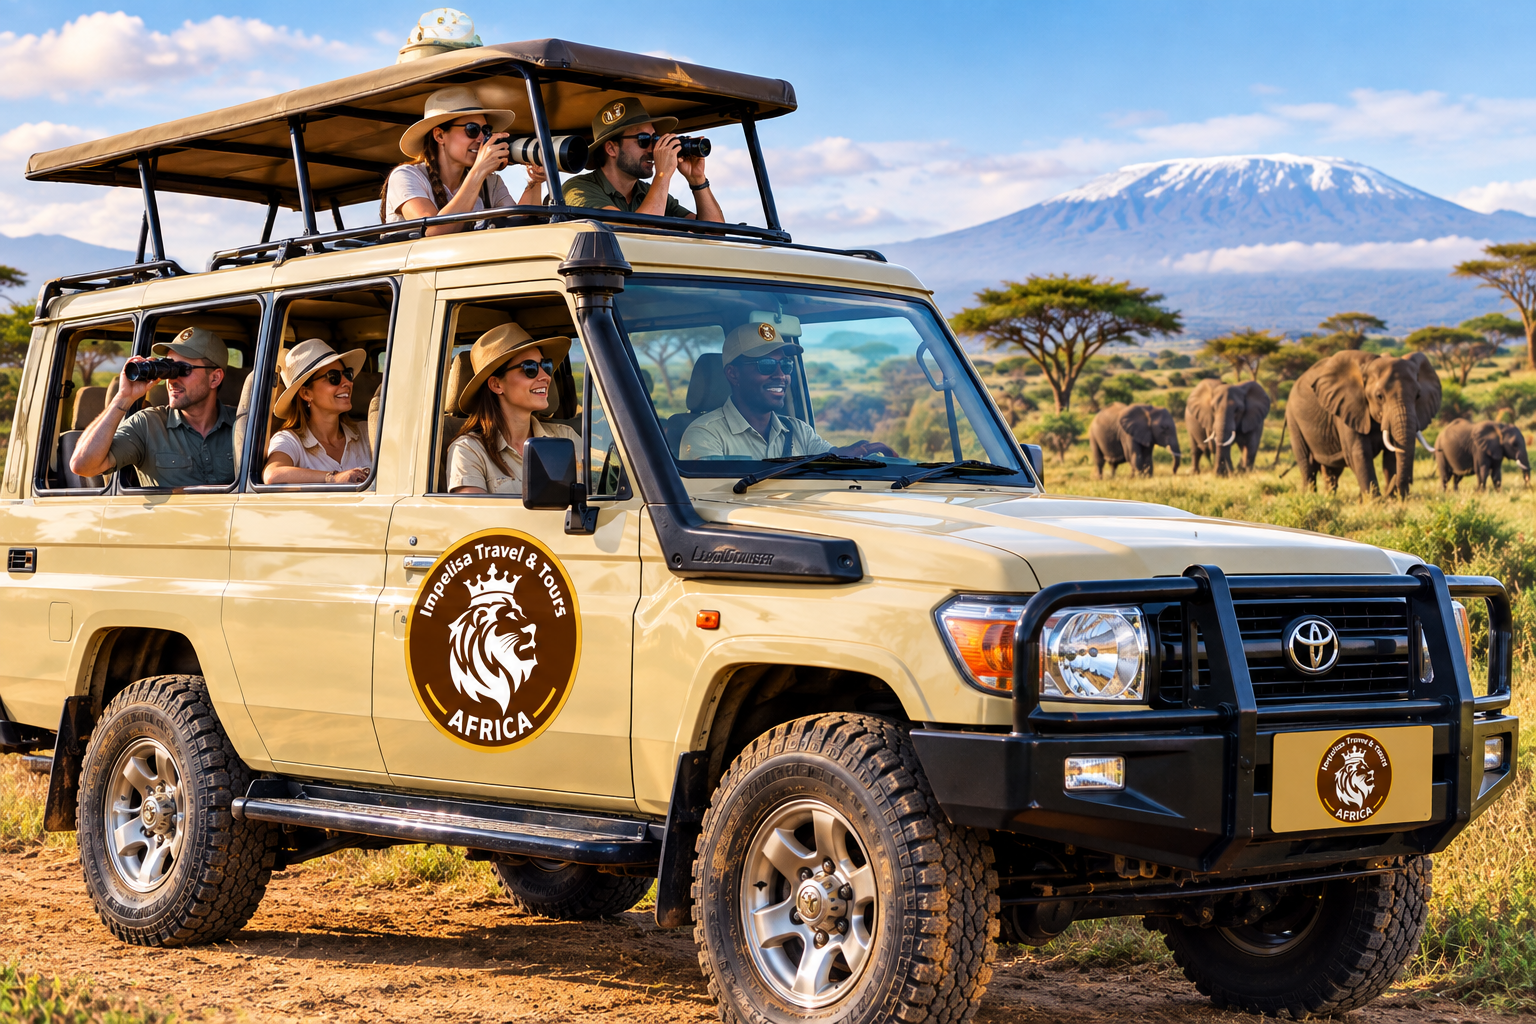
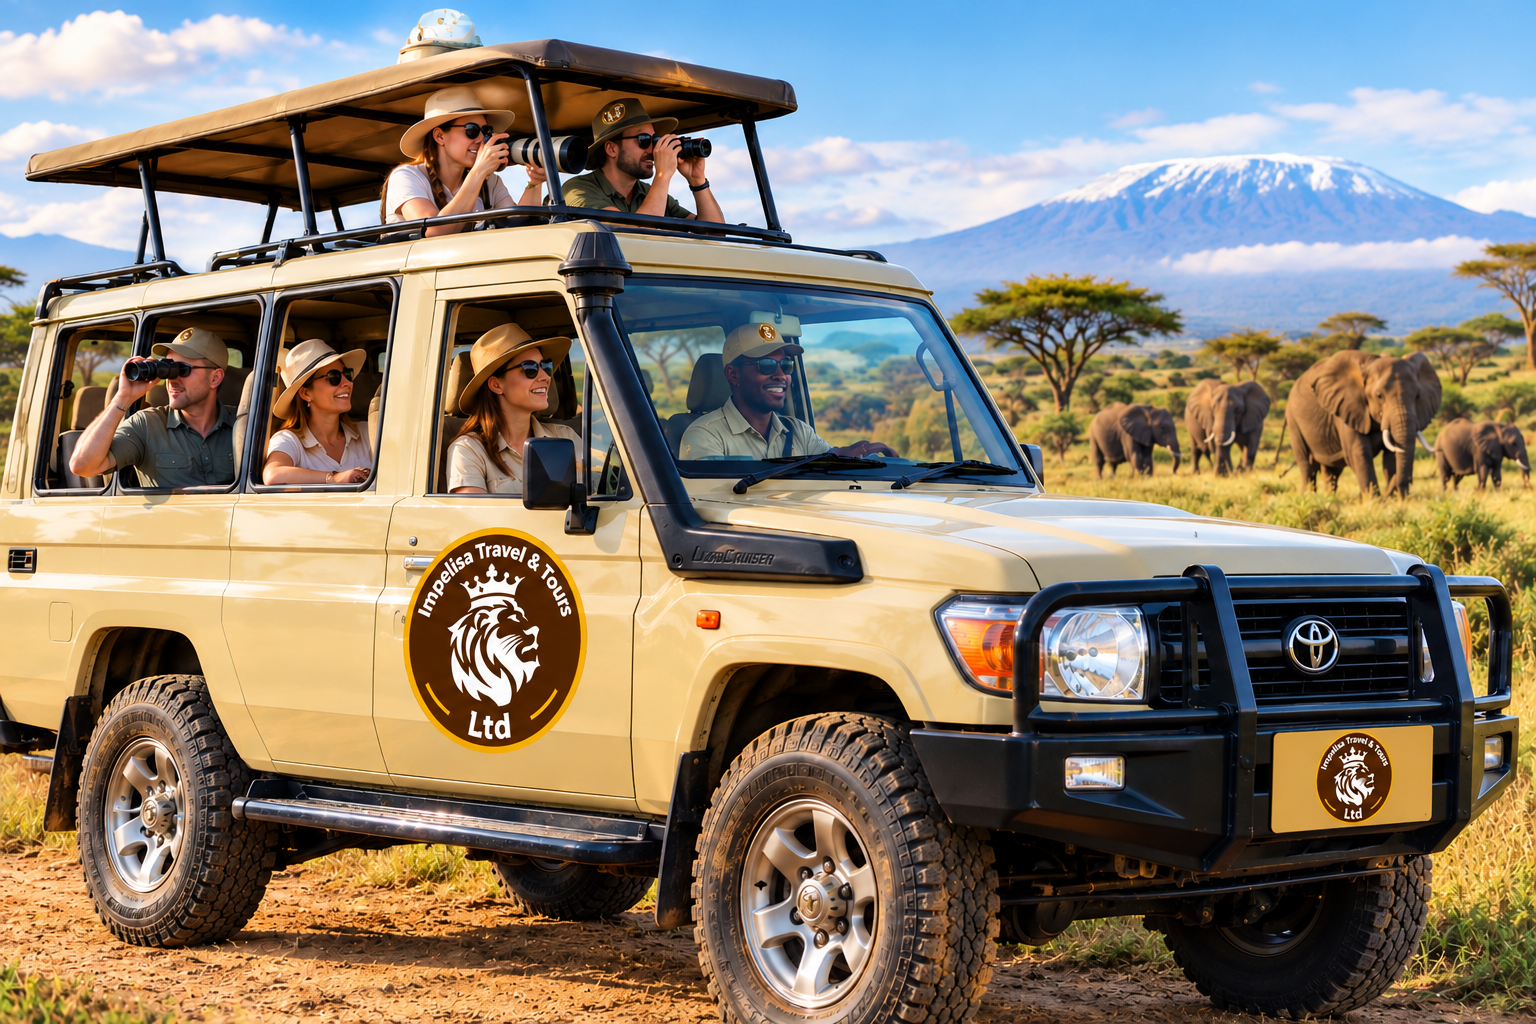
Sixth Commit

diff --git a/src/components/HeroSection.tsx b/src/components/HeroSection.tsx
@@ -73,7 +73,7 @@ export default function HeroSection() {
           <p className="text-white/70 text-base lg:text-lg leading-relaxed mb-8 max-w-md">
             From breathtaking wildlife safaris to pristine beaches and majestic
             mountains, discover Africa&apos;s most incredible destinations with
-            Impelisa Travel &amp; Tours Africa.
+            Impelisa Travel &amp; Tours Ltd
           </p>
 
           <div className="flex flex-wrap gap-4">
@@ -104,122 +104,7 @@ export default function HeroSection() {
           </div>
         </div>
 
-        {/* Right: Search Card */}
-        <form
-          onSubmit={handleFindTrip}
-          className="w-full max-w-sm lg:max-w-[340px] xl:max-w-[370px] lg:ml-auto search-card p-6"
-        >
-          {/* Card Header */}
-          <div className="flex items-start gap-4 mb-6 pb-5 border-b border-white/10">
-            <div className="w-10 h-10 rounded-xl bg-[var(--gold)]/15 flex items-center justify-center shrink-0">
-              <svg width="18" height="18" viewBox="0 0 24 24" fill="none" stroke="var(--gold)" strokeWidth="1.8">
-                <rect x="3" y="4" width="18" height="18" rx="2" ry="2"/>
-                <line x1="16" y1="2" x2="16" y2="6"/>
-                <line x1="8" y1="2" x2="8" y2="6"/>
-                <line x1="3" y1="10" x2="21" y2="10"/>
-                <circle cx="17" cy="17" r="3"/>
-                <path d="m19.5 19.5-1.5-1.5"/>
-              </svg>
-            </div>
-            <div>
-              <h3 className="text-white font-bold text-base">Find Your Perfect Trip</h3>
-              <p className="text-white/50 text-xs mt-0.5 leading-relaxed">
-                Search destinations, dates and get a customized experience.
-              </p>
-            </div>
-          </div>
-
-          {/* Destination */}
-          <div className="mb-4">
-            <label className="block text-white/60 text-xs font-semibold tracking-wider uppercase mb-2">
-              Destination
-            </label>
-            <div className="relative">
-              <select
-                value={destination}
-                onChange={(e) => setDestination(e.target.value)}
-                className="input-dark pl-10 pr-8 text-sm cursor-pointer"
-              >
-                <option value="">Select destination</option>
-                {destinations.map((d) => (
-                  <option key={d} value={d}>{d}</option>
-                ))}
-              </select>
-              <div className="absolute right-3 top-1/2 -translate-y-1/2 pointer-events-none text-white/40">
-                <svg width="14" height="14" viewBox="0 0 24 24" fill="none" stroke="currentColor" strokeWidth="2">
-                  <path d="m6 9 6 6 6-6"/>
-                </svg>
-              </div>
-            </div>
-          </div>
-
-          {/* Travel Dates */}
-          <div className="mb-4">
-            <label className="block text-white/60 text-xs font-semibold tracking-wider uppercase mb-2">
-              Travel Dates
-            </label>
-            <div className="flex items-center gap-2 bg-[var(--dark-3)] rounded-lg border border-white/10 px-3 py-2">
-             
-              <input
-                type="date"
-                value={startDate}
-                onChange={(e) => setStartDate(e.target.value)}
-                placeholder="Start date"
-                className="bg-transparent outline-none text-sm text-white/70 flex-1 min-w-0 [color-scheme:dark]"
-              />
-              <svg width="14" height="14" viewBox="0 0 24 24" fill="none" stroke="white" strokeWidth="2" opacity="0.3">
-                <path d="M5 12h14"/>
-              </svg>
-              <input
-                type="date"
-                value={endDate}
-                onChange={(e) => setEndDate(e.target.value)}
-                placeholder="End date"
-                className="bg-transparent outline-none text-sm text-white/70 flex-1 min-w-0 [color-scheme:dark]"
-              />
-            </div>
-          </div>
-
-          {/* Number of Travellers */}
-          <div className="mb-6">
-            <label className="block text-white/60 text-xs font-semibold tracking-wider uppercase mb-2">
-              Number of Travellers
-            </label>
-            <div className="relative">
-             
-              <select
-                value={numTravellers}
-                onChange={(e) => setNumTravellers(e.target.value)}
-                className="input-dark pl-10 pr-8 text-sm cursor-pointer"
-              >
-                {travellers.map((t) => (
-                  <option key={t} value={t}>{t}</option>
-                ))}
-              </select>
-              <div className="absolute right-3 top-1/2 -translate-y-1/2 pointer-events-none text-white/40">
-                <svg width="14" height="14" viewBox="0 0 24 24" fill="none" stroke="currentColor" strokeWidth="2">
-                  <path d="m6 9 6 6 6-6"/>
-                </svg>
-              </div>
-            </div>
-          </div>
-
-          {/* Find Trip Button → opens modal */}
-          <button
-            type="submit"
-            className="btn-gold w-full justify-center text-sm py-3.5 rounded-xl font-bold tracking-wide"
-          >
-            <svg width="16" height="16" viewBox="0 0 24 24" fill="none" stroke="currentColor" strokeWidth="2">
-              <circle cx="11" cy="11" r="8"/>
-              <path d="m21 21-4.35-4.35"/>
-            </svg>
-            Find My Perfect Trip
-          </button>
-
-          <p className="text-white/30 text-[10px] text-center mt-3 leading-relaxed">
-            You&apos;ll complete your booking details in the next step
-          </p>
-        </form>
+       
       </div>
     </section>
   );

diff --git a/src/components/Footer.tsx b/src/components/Footer.tsx
@@ -51,7 +51,7 @@ export default function Footer() {
                   IMPELISA
                 </div>
                 <div className="text-white/50 text-[0.65rem] tracking-widest uppercase">
-                  Travel &amp; Tours Africa
+                  Travel &amp; Tours Ltd
                 </div>
               </div>
             </Link>

diff --git a/src/components/Navbar.tsx b/src/components/Navbar.tsx
@@ -51,7 +51,7 @@ export default function Navbar() {
               IMPELISA
             </div>
             <div className="text-white/60 text-[0.65rem] tracking-widest uppercase">
-              Travel &amp; Tours Africa
+              Travel &amp; Tours Ltd
             </div>
           </div>
         </Link>
